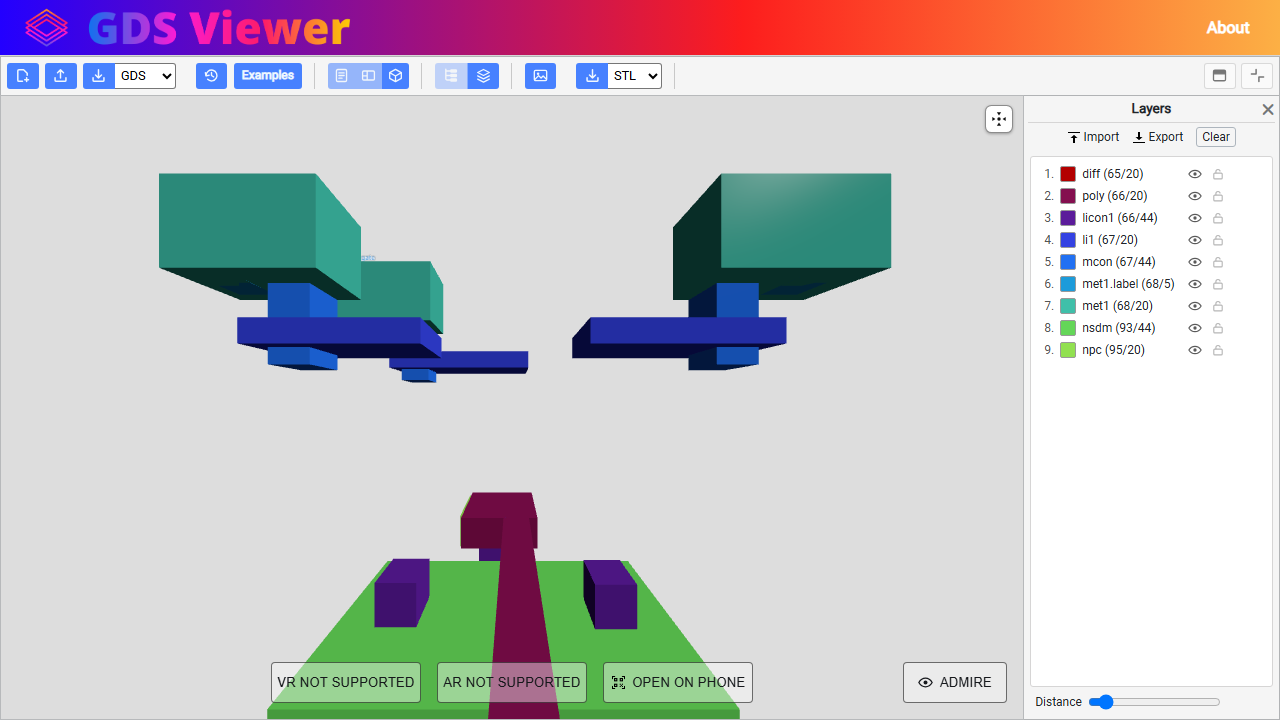
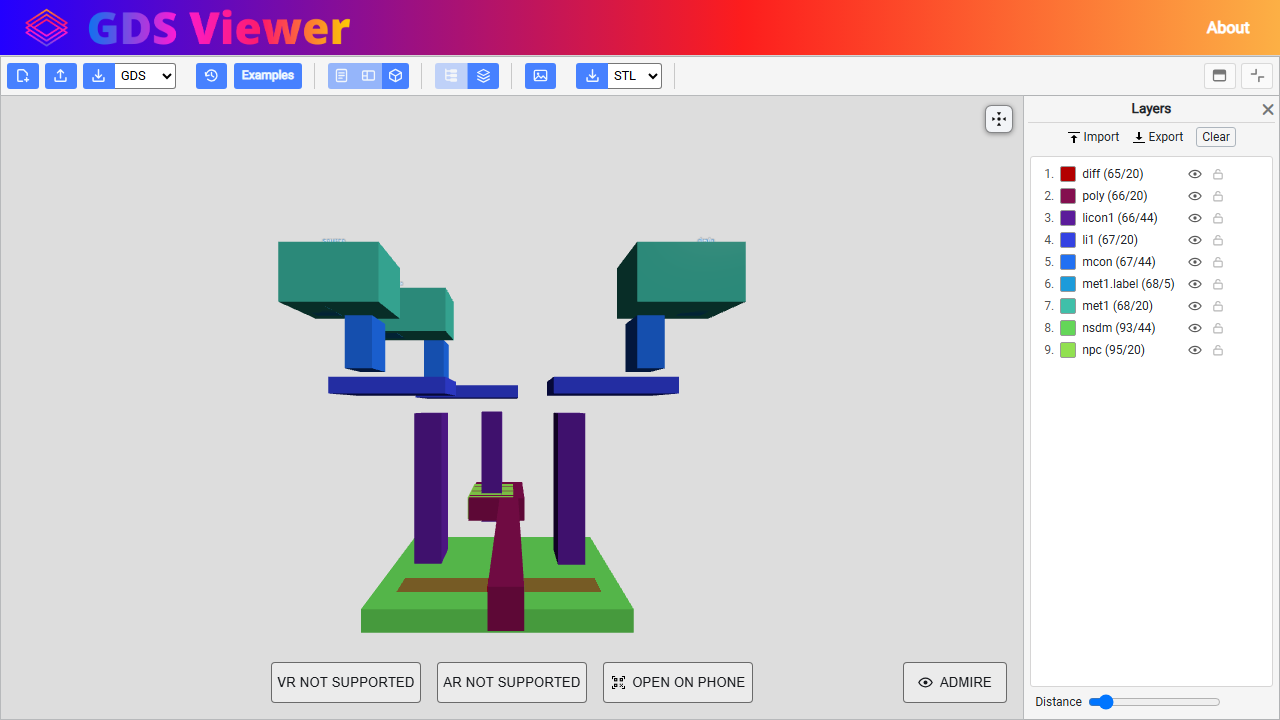
frame the 3D view, and document what was added
The camera opened at a fixed distance down Z and stayed there, which
worked only while the geometry sat in front of it. Correcting the
extrusion moved it: slabs used to hang below the plane they were drawn
on and now stand on it, so the stack rose by its own height and the
camera was left aimed at its underside. A mapped sky130 cell opened with
its metals off the top of the frame - the stack projected to a
normalized y of -0.20 to 2.90, where past 1 is off screen.

Nothing caught it. Every 3D test asserted geometry and none asserted any
of it was visible, which is a class of fault a scene graph check cannot
see. A documentation screenshot coming out wrong is what noticed.

The first draw of a file now runs the same fit the Center button uses,
and only the first - a layer toggle and a spacing step arrive with the
same file and must leave the camera alone. A restored session's camera
still wins. The test projects the stack's corners through the camera the
scene renders with rather than pinning a position, so it holds wherever
the geometry moves next.

Screenshots regenerated: the layer rows show the eye and the lock, and
the 3D picture presses Center rather than carrying a spread tuned to the
old framing.

Docs against what was actually added. FEATURES-DEMO still described the
layer checkbox, and inline renaming that is gone; it said nothing about
the rules gear or the rule descriptions the DRC line now carries. The
[…]

Changed region(s): [[0.125, 0.2139, 0.7188, 1.0]]

diff --git a/e2e/render-3d.spec.js b/e2e/render-3d.spec.js
@@ -667,3 +667,101 @@ test('a press on a layer row flashes that row', async ({ page }) => {
     //And it goes out, rather than leaving one row of the list marked from then on.
     await expect(page.locator('.layerRow').nth(2)).not.toHaveClass(/layerRowPulsing/, { timeout: 5000 });
 });
+
+///
+///**Opening a file in 3D frames it**, rather than trusting the stack to be where a fixed camera points.
+///
+///This is a regression test with a story. The camera opened at a fixed distance down Z and stayed there,
+///which worked only for as long as the geometry happened to sit in front of it. It stopped: extruded slabs
+///used to hang *below* the plane they were drawn on and now stand on it - the placement the process actually
+///describes - so the whole stack rose by its own height and the camera was left aimed at its underside. A
+///mapped sky130 cell opened with its metals off the top of the frame, and the only thing that caught it was
+///a documentation screenshot looking wrong.
+///
+///Asserted by projecting the stack's own corners through the camera the scene renders with: inside the
+///normalized cube on both axes is "in frame", and it holds wherever the geometry moves to next. Which is the
+///point - a camera position tuned to today's stack would pass this while meaning nothing.
+///
+test('opening a layout in 3D frames the whole stack', async ({ page }) => {
+    const framing = await page.evaluate(async () => {
+        const THREE = await import('three');
+
+        //The meshes come back through the restack, which is a Y write per object and builds nothing.
+        const added = [];
+        const originalAdd = THREE.Object3D.prototype.add;
+
+        THREE.Object3D.prototype.add = function (...objects) {
+            for (const object of objects)
+                added.push(object);
+
+            return originalAdd.apply(this, objects);
+        };
+
+        const slider = document.getElementById('layerSpacing');
+
+        slider.value = String(Number(slider.value) + 1);
+        slider.dispatchEvent(new Event('input', { bubbles: true }));
+
+        await new Promise(resolve => setTimeout(resolve, 1200));
+
+        THREE.Object3D.prototype.add = originalAdd;
+
+        const meshes = added.filter(object => object.isMesh);
+
+        if (meshes.length === 0)
+            return { meshes: 0 };
+
+        //Up to the scene, then the camera it holds - the same one the renderer draws with.
+        let root = meshes[0];
+
+        while (root.parent)
+            root = root.parent;
+
+        let camera = null;
+
+        root.traverse(object => {
+            if (object.isCamera && camera === null)
+                camera = object;
+        });
+
+        if (camera === null)
+            return { meshes: meshes.length, camera: false };
+
+        const box = new THREE.Box3();
+
+        for (const mesh of meshes) {
+            mesh.updateMatrixWorld(true);
+            box.expandByObject(mesh);
+        }
+
+        camera.updateMatrixWorld(true);
+
+        let left = 9, right = -9, bottom = 9, top = -9;
+
+        for (const x of [box.min.x, box.max.x])
+            for (const y of [box.min.y, box.max.y])
+                for (const z of [box.min.z, box.max.z]) {
+                    const corner = new THREE.Vector3(x, y, z).project(camera);
+
+                    left = Math.min(left, corner.x);
+                    right = Math.max(right, corner.x);
+                    bottom = Math.min(bottom, corner.y);
+                    top = Math.max(top, corner.y);
+                }
+
+        return { meshes: meshes.length, camera: true, left, right, bottom, top };
+    });
+
+    expect(framing.meshes).toBeGreaterThan(0);
+    expect(framing.camera).toBe(true);
+
+    const said = `x ${framing.left.toFixed(2)}..${framing.right.toFixed(2)}, y ${framing.bottom.toFixed(2)}..${framing.top.toFixed(2)}`;
+
+    expect(framing.top, `the stack runs off the top: ${said}`).toBeLessThanOrEqual(1);
+    expect(framing.bottom, `the stack runs off the bottom: ${said}`).toBeGreaterThanOrEqual(-1);
+    expect(framing.right, `the stack runs off the right: ${said}`).toBeLessThanOrEqual(1);
+    expect(framing.left, `the stack runs off the left: ${said}`).toBeGreaterThanOrEqual(-1);
+
+    //And it is actually filling the frame rather than a speck in the middle of it, which would also "fit".
+    expect(framing.top - framing.bottom, `the stack is a speck: ${said}`).toBeGreaterThan(0.2);
+});

diff --git a/tools/screenshots.spec.js b/tools/screenshots.spec.js
@@ -95,22 +95,25 @@ test('the 3D view', async ({ page }) => {
     //of "layers extruded and stacked in space" shows a flat lump. The restack is live, so this settles in a
     //frame rather than needing a redraw.
     //
-    //**60 because the camera does not refit.** Only a headset gets one - see ThreeInterop's restack, which
-    //refits when xr.isPresenting so the layout does not walk off into the room. On a desktop the camera stays
-    //where it is, so a stack opened wider than what was already in frame runs off the top: at 520 the upper
-    //layers were gone entirely and at 200 the top one was still clipped. A wheel over the canvas does not fix
-    //it either - Playwright's wheel does not reach OrbitControls here, which was tried and did nothing. This
-    //is the number that fits, and it is worth knowing it is about the frame rather than about the feature.
+    //**The number no longer has to be tuned to the frame**, which is what it used to be for. A spread wider
+    //than what was already in view ran off the top, so this read 110, then 60, each time picked by looking
+    //at the result - and each time wrong again the moment the geometry moved, which it did when slabs
+    //stopped hanging below the plane they were drawn on.
     //
-    //**It read 110 while the slider's number was measured from 50 rather than from nought**, so it always
-    //meant this same 60 of spread. The framing it was tuned for is the thing to keep, not the digits.
+    //Center the view is pressed instead, which is a real control doing the thing the picture needs, and it
+    //fits whatever the stack has become. See Viewer3D's frameAfterDrawing: opening a file frames it now, and
+    //a spacing change deliberately does not, so this is exactly the case the button is there for.
     //
     await page.locator('#layerSpacing').evaluate(slider => {
         slider.value = '60';
         slider.dispatchEvent(new Event('input', { bubbles: true }));
     });
 
-    await page.waitForTimeout(2000);
+    await page.waitForTimeout(1000);
+
+    await page.locator('#centerView').click();
+
+    await page.waitForTimeout(1500);
 
     await shoot(page, '3d-view');
 });

diff --git a/README.md b/README.md
@@ -85,7 +85,8 @@ drawing, the grid, measuring, tracing a net, fill patterns, the cell tree and th
   zoom, adjustable opacity to see through stacked layers. Twenty thousand shapes pan at the screen's own
   frame rate. **Download Image** saves the whole layout, not only the part on screen.
 - 🎯 **Center the view**, in 2D or in 3D, from the button in the top-right of the canvas — for when you have panned or
-  orbited the layout off the edge of the window. And **where you are looking is part of the link**: frame
+  orbited the layout off the edge of the window. Both views frame the layout when it opens, so this is for
+  getting back rather than for arriving. And **where you are looking is part of the link**: frame
   something and the address says so, so a link or the QR code opens on that transistor rather than on the
   whole cell. It comes back on your next visit either way.
 - 🖱 **Tools** — **Pan**, **Measure** for a distance in units and microns, **Select** to click a shape and
@@ -107,10 +108,16 @@ drawing, the grid, measuring, tracing a net, fill patterns, the cell tree and th
   it. Removal takes them everywhere in the file and undoes as one step, with the layer's name and height
   intact. (The format records a layer only through the shapes on it, so an empty one is gone when the file is
   written — draw on it or name it and it stays.)
+- 👁 **An eye and a lock on every layer** — two different questions, so two controls. The eye is whether the
+  layer is drawn: off, and its shapes leave the 2D view, the 3D stack and the reach of the pointer together.
+  The lock leaves them drawn but faded and out of reach — not clickable, not caught in a band, not draggable.
+  Lock everything but the layer you are on and it is isolated, while what you are lining it up against is
+  still visible; hiding those would take away the thing you were aligning to.
 - 🩺 **Add and remove rules** — **Add rule**, at the foot of the rules list, takes one line of the deck's own
   grammar, checked by the same parser that reads a deck file, with its complaint shown where you typed. An
-  **×** on any row takes that rule out, asking first. Both edit the deck itself, so **Export** hands you what
-  the panel is showing.
+  **×** on any row takes that rule out, asking first. A **gear** on the row opens the rule as the deck holds
+  it, editable and checked the same way. Both edit the deck itself, so **Export** hands you what the panel is
+  showing.
 - 📐 **A grid to see and to snap to**, in nanometers, microns, millimeters or raw database units. It starts at
   the file's own grid rather than a round number, so the first thing you draw lands where the rest of the
   file already is. Drawing can also snap to a neighboring corner or edge.
@@ -133,12 +140,16 @@ drawing, the grid, measuring, tracing a net, fill patterns, the cell tree and th
   and rotation, at every level of nesting.
 - 🔌 **Wires drawn at their real width** — a `PATH`'s centerline is expanded into the shape it occupies,
   with mitered corners and all four end-cap styles.
-- 🧊 **3D view** — layers extruded and stacked in space, orbit and drag, adjustable layer spacing,
-  scene backgrounds, and a cinematic camera orbit.
+- 🧊 **3D view** — layers extruded and stacked in space, orbit and drag, scene backgrounds, and a cinematic
+  camera orbit. With a layermap carrying heights it opens on the **process stack itself** — a contact sitting
+  between the two films it joins, because the table says where it is — and the **Distance** slider opens a
+  gap on top of that when you want to see between layers that in reality touch.
 - 🥽 **WebXR** — enter the layout in VR or AR from a supported headset or phone. The chip is scaled from
   its own nanometer units down to something you can stand next to, and AR keeps the camera feed visible
   behind it.
-- 📤 **Export the 3D model** as STL, OBJ or GLTF.
+- 📤 **Export the 3D model** as STL, OBJ or GLTF — **Z-up and wound outward**, which is what every CAD and
+  EDA tool that opens one expects, rather than the Y-up the browser scene is drawn in. Checked against the
+  same cells extruded by KLayout: same footprint, same stack height, same levels to the nanometer.
 - 📝 **Text view** — the raw record stream, one record per line, in Monaco with a GDSII grammar: keywords,
   colons and numeric values colored, and typing offers every record type with its data type as
   documentation. **Save** reads the buffer back into the file, all or nothing: a line it cannot parse is
@@ -349,6 +360,11 @@ How this is implemented, and how the precedence is tested, is in
 
 Everything the viewer does to a file, it can do from a terminal too — read it, check it, name its layers,
 draw it, extrude it, run booleans over it and convert it between GDSII, OASIS and DXF.
+
+**The library builds layouts as well as reading them.** Rectangles, circles, ellipses, regular polygons and
+rings; Bézier curves; and routes laid a segment at a time with radiused bends and a width that can taper
+along them — every one handing back corners rather than elements, so a shape can be measured or combined
+before it goes on a layer. Each edit is undoable, so the same calls drive a generator or an editor.
 
 ```bash
 dotnet tool install -g GdsII.Cli

diff --git a/docs/FEATURES-DEMO.md b/docs/FEATURES-DEMO.md
@@ -79,9 +79,19 @@ rows with their own colors, rather than one "layer 67" hiding drawn geometry and
 
 ![The layer sidebar](images/layer-sidebar.png)
 
-Each row can be switched off, renamed, recolored, hatched, given a role and given a real height and thickness:
+**Each row carries an eye and a lock**, which answer two different questions. The eye is whether the layer is
+drawn at all: switch it off and its shapes leave the view, the 3D stack and the reach of the pointer
+together. The lock leaves them drawn but faded and takes them out of reach — they cannot be clicked, caught
+in a band, or dragged. So locking everything except the layer you are working on isolates it without hiding
+what you are lining it up against, which hiding cannot do.
+
+Behind the gear, a row can be renamed, recolored, hatched, given a role and given a real height and
+thickness:
 
 ![The layer settings popup](images/layer-settings.png)
+
+Renaming is in that panel rather than on the row. A name is a claim about what a number means across a whole
+technology, and a click that lands slightly wrong on a row you meant to select is the wrong way to make one.
 
 **Nothing in a GDSII file says what its layers mean.** `65/20` is a number; that it is diffusion is PDK data,
 which is why KLayout wants a `.lyp` and Magic its techfile. So the names above came from a layermap — a CSV of
@@ -136,6 +146,11 @@ you type is checked by the same parser that reads a deck file, and its complaint
 own words. The **×** on any row takes that rule out, asking first. Both edit the deck itself, so **Export**
 hands you exactly what the panel is showing.
 
+A **gear** on each row opens that rule as the deck holds it — the line itself, editable, checked by the same
+parser and refused the same way if it cannot be read. Same idea as the layer settings beside it: the row
+shows you the rule, and changing one is a deliberate act behind a control rather than a click on the row you
+were trying to point at.
+
 **DRC Check** runs it, whenever you press it. **check on edit** runs it again after every change as well —
 and with that off, an edit *takes the last result off the drawing* rather than leaving it: a marker is a
 claim about where something is, and the moment the geometry under it moves the claim is about a layout that
@@ -147,6 +162,10 @@ What it finds is marked on the drawing, counted per rule, and said in one line o
 
 Every fault is drawn in the same orange as the rule row that found it, so the list and the marks read as one
 thing. Clicking a flagged row frames the view on the first fault under it.
+
+**The line over the view names each rule and says what it is**, in the deck's own description — the same
+sentence the row's tooltip carries. A rule id is a filename to somebody who wrote the deck and nothing at all
+to anybody else, so `met1.2` on its own is a fault you have to go and look up before you can act on it.
 
 **A rule this build cannot measure is refused by name, not skipped.** It stays in the list, marked *not
 measurable*, and every result from that deck says *"not fully checked"* — because a count of faults is only
@@ -272,9 +291,19 @@ GDS3D shows the same. What a mapping does *not* cover — markers, area ids, a c
 this view rather than hung at a depth nobody measured, so nothing floats over or between the real films. It
 keeps its row in the sidebar and its 2D drawing, and a height in its layer settings brings it back.
 
+The **Distance** slider starts at nought, so a mapped file opens on the process stack itself rather than on a
+spread-out picture of it. Pull it up to open a gap on top of wherever each layer already rests, for seeing
+between films that in reality touch.
+
 Pin labels come too, as camera-facing billboards so they stay readable from any angle. Scene backgrounds and a
 cinematic orbit are in the toolbar, along with **STL, OBJ and GLTF export** — and **VR and AR** buttons, which
 say `NOT SUPPORTED` on a machine with no headset, as above.
+
+**What is exported is Z-up**, whichever way the view happens to be turned. The scene here is Y-up because
+that is what three.js uses; every CAD and EDA tool that opens an STL expects the wafer normal to be Z, so the
+model is converted on the way out and its faces wound outward — the two things a slicer or a mesh tool checks
+first. Compared against the same cells extruded by KLayout: same footprint, same stack height, same levels to
+the nanometer.
 
 ## The text editor
 

diff --git a/docs/DOCUMENTATION.md b/docs/DOCUMENTATION.md
@@ -3425,6 +3425,34 @@ Worth generalizing from. A synthetic event is a good stand-in for one the automa
 for what the *handler* does with it — never for what the browser would have done afterwards. An assertion
 about the second kind will pass for free.
 
+### The 3D camera frames the layout rather than pointing where it used to be
+
+**The camera opened at a fixed distance down Z and stayed there**, which worked only for as long as the
+geometry happened to sit in front of it. It stopped when the extrusion was corrected: slabs used to hang
+*below* the plane they were drawn on and now stand on it, the placement the process describes, so the whole
+stack rose by its own height and the fixed camera was left aimed at its underside. A mapped sky130 cell
+opened with its metals off the top of the frame — measured, the stack projected to a normalized y of −0.20
+to **2.90**, where anything past 1 is off screen.
+
+Nothing caught it. Every 3D test asserted geometry — mesh counts, extruded footprints, label heights — and
+none of them asserted that any of it was *visible*, which is a whole class of fault a scene graph check
+cannot see. What caught it was a documentation screenshot coming out wrong.
+
+The first draw of a file now calls the same fit the **Center the view** button uses, and only the first: a
+layer toggle and a spacing step come back through the same path with the same file and must leave the camera
+alone, or the view would snap back every time a row was switched off. A session's own camera still wins —
+that fit is skipped outright when there is one waiting to be restored. `flattenedFrom` is what tells "a file
+this view has not drawn yet" from "the same file again"; it already existed, for the merge cache.
+
+**The test that pins it projects the stack's own corners through the camera the scene renders with** and
+requires the normalized bounds to fall inside the cube, plus a floor on how much of the frame it fills so a
+speck in the middle cannot pass. That holds wherever the geometry moves to next, where a camera position
+tuned to today's stack would pass while meaning nothing. Verified by disabling the fit and watching it fail
+with `the stack runs off the top: x -1.50..1.61, y -1.25..1.86`.
+
+The documentation screenshot no longer needs a tuned spread either — `tools/screenshots.spec.js` presses
+Center after opening the stack out, instead of the magic 60 that had already been 110 once.
+
 ### How tall a toolbar popup gets
 
 **Examples and History are measured downward, not guessed.** They hang under their button at `top: 100%`,
